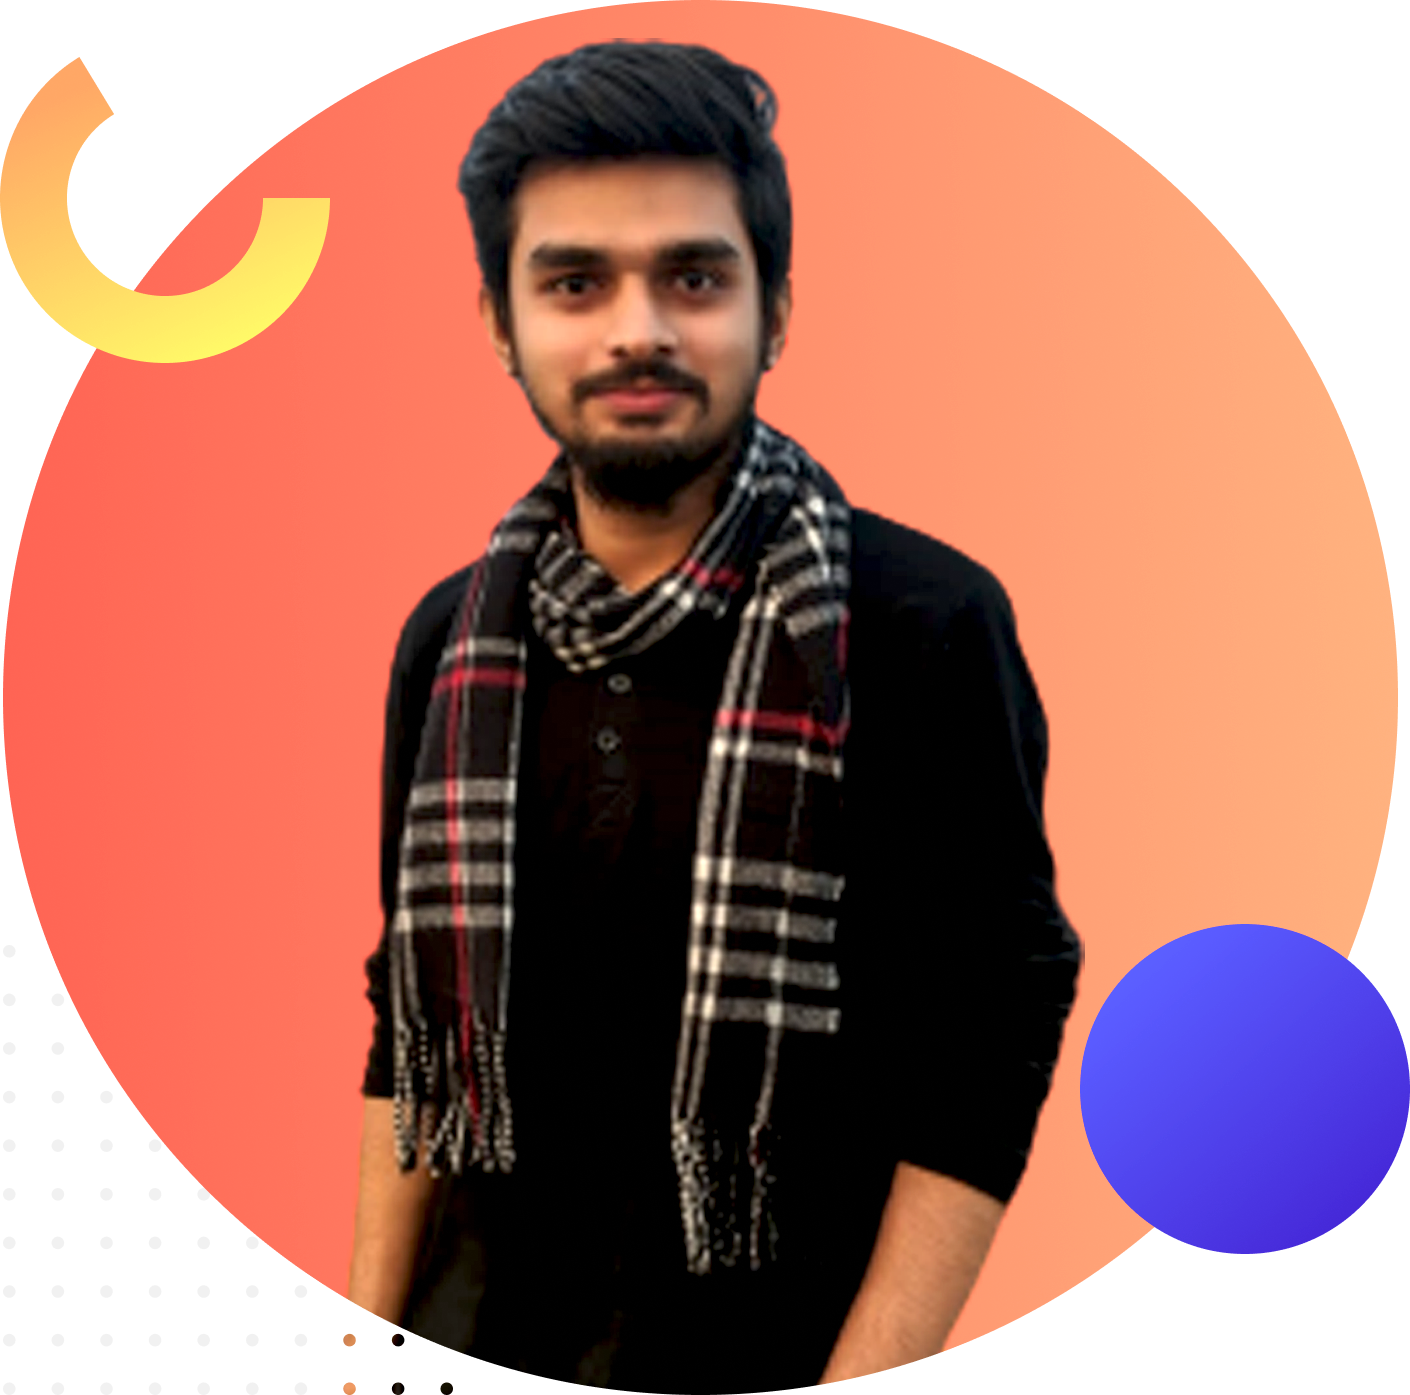
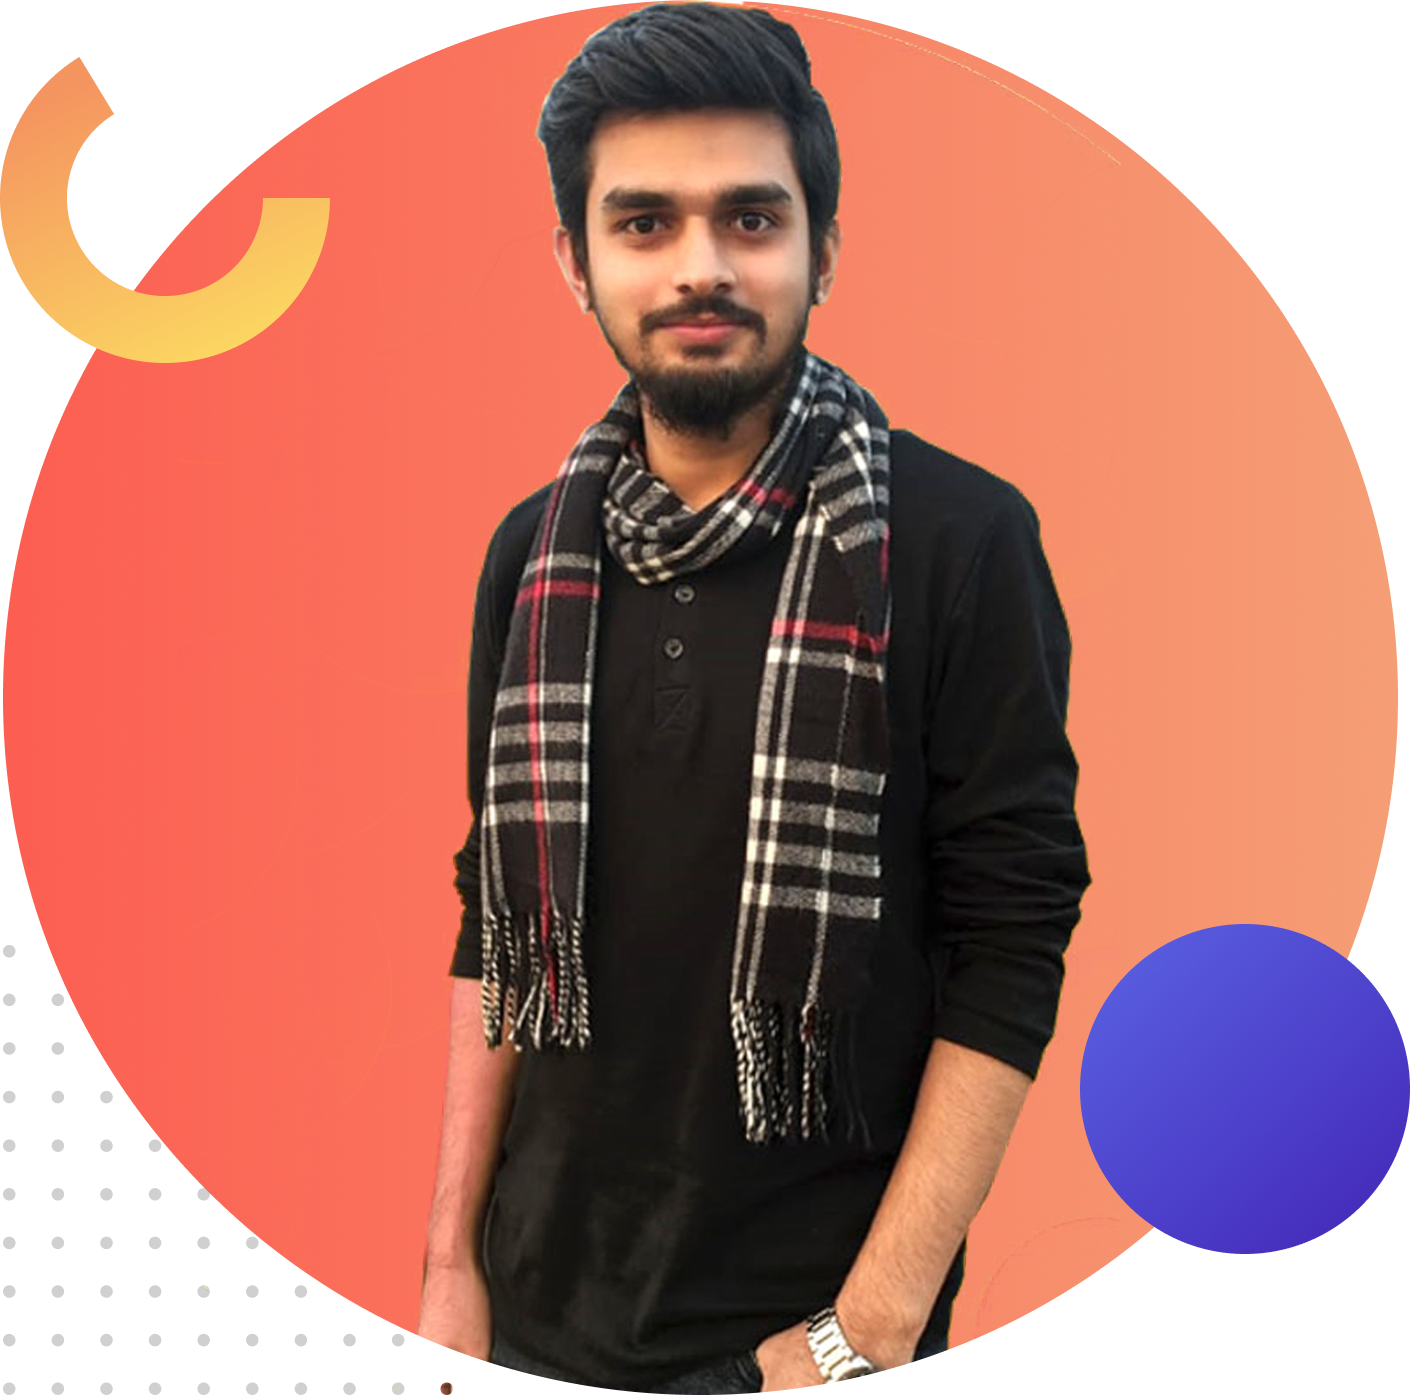
middle-section

diff --git a/index.html b/index.html
@@ -15,11 +15,24 @@
         <div class="top-part">
             <h1>HELLO, I'M<br><span id="Header-color">MAZED MOHAMMED</span></h1>
             <p>
-                A full stack allaround designer that placerat<br>in massa consectetur
+                A professional web developer, web designer and<br>search engine optimizer.
             </p>
+            <a class="link-button" target="_blank" href="https://www.linkedin.com/in/mazed-mohammed-6521241b0/">Hire Me</a>    
         </div>
         <div class="top-part">
             <img src="mazed.png">
+        </div>
+    </section>
+    <section>
+        <div class="top-part">
+            <img src="MZ.png">
+        </div>
+        <div class="top-part">
+            <h2>ABOUT</h2>
+            <p>
+                This is me Mazed Mohammed. I'm a web developer and search engine optimizer. I am interny as a developer in a company. My developing career was start since 2019. I developed many more exciting websites. This is my portfolio website. My upcomming more featured adding websites are travel website, agency website, resturant website, sports accessories website etc. I'm also skilled by digital marketing and working as a freelancer in online marketplace such as Fiverr, UpWork, Freelancer etc.
+            </p>
+            <a class="link-button" target="_blank" href="https://www.linkedin.com/in/mazed-mohammed-6521241b0/">Download CV</a>
         </div>
     </section>
 </body>

diff --git a/style.css b/style.css
@@ -5,10 +5,17 @@ h1{
     font-family: 'Bebas Neue', cursive;
     font-size: 80px;
 }
+h2{
+    font-family: 'Bebas Neue', cursive;
+    font-size: 80px;
+}
 #Header-color{
     color: orangered;
 }
 p{
+    font-family: 'Roboto', sans-serif;
+}
+a{
     font-family: 'Roboto', sans-serif;
 }
 .top-part{
@@ -18,4 +25,13 @@ p{
 }
 .top-part img{
     width: 100%;
+}
+.link-button{
+    background-image: linear-gradient(180deg, lightsalmon, tomato);
+    padding: 10px 30px;
+    border-radius: 15px;
+    text-decoration: none;
+    background-size: 20px;
+    font-size: 20px;
+    color: white;
 }
